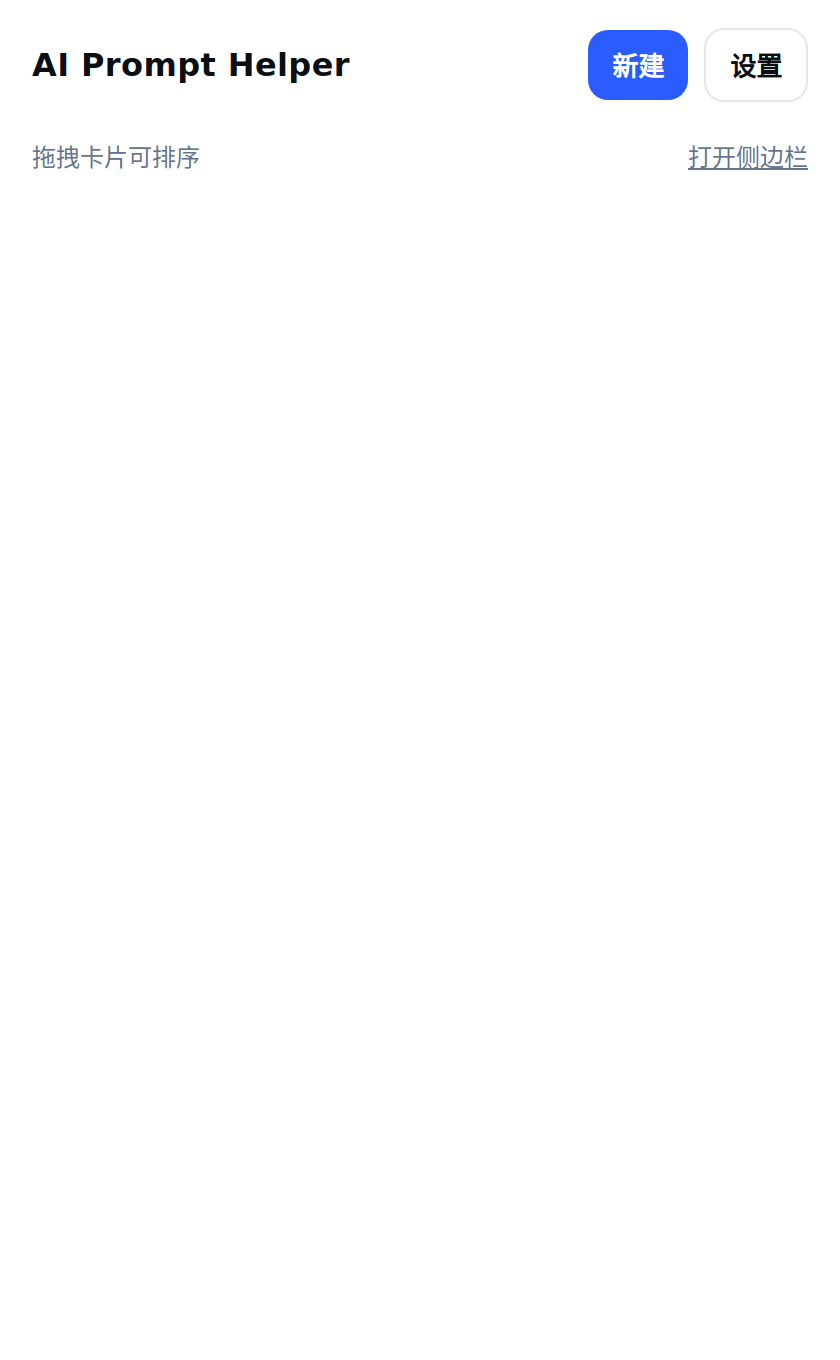
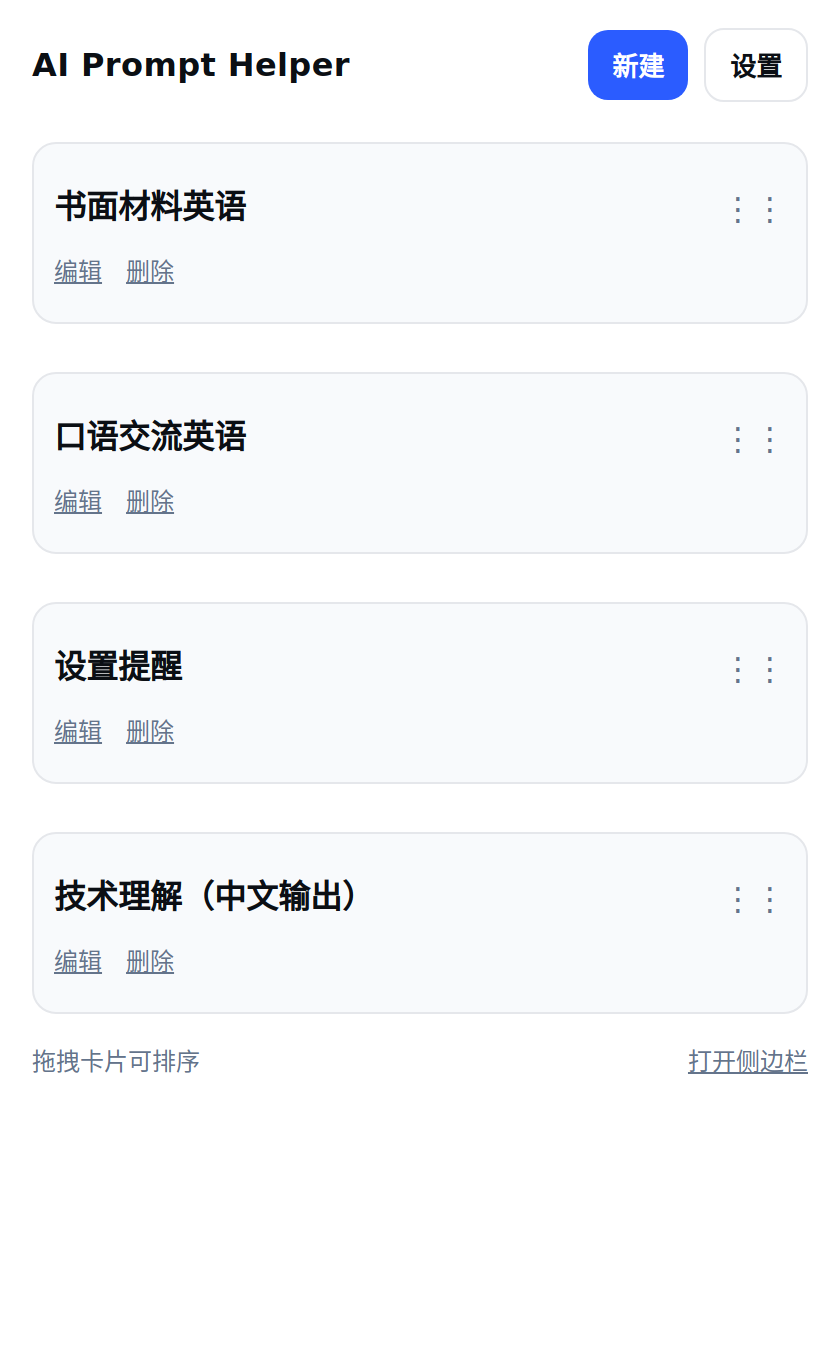
chore(screenshots): ensure preset cards render in screenshots; unify headers; regen

diff --git a/tools/screenshot.js b/tools/screenshot.js
@@ -20,7 +20,20 @@ const puppeteer = require('puppeteer');
 
   // popup home
   await page.goto(popupUrl, { waitUntil: 'load' });
-  await page.waitForSelector('.cards');
+  try { await page.waitForSelector('.cards .card', { timeout: 5000 }); } catch {
+    await page.evaluate(() => {
+      const cards = document.getElementById('cards');
+      if (cards && !cards.querySelector('.card')) {
+        const names = ['书面材料英语','口语交流英语','设置提醒','技术理解（中文输出）'];
+        names.forEach(name => {
+          const d = document.createElement('div');
+          d.className = 'card interactive';
+          d.innerHTML = `<div class="row" style="justify-content:space-between;align-items:center"><div class="card-title">${name}</div><div class="handle">⋮⋮</div></div><div class="row inline-actions" style="justify-content:flex-start"><button class="link">编辑</button><button class="link">删除</button></div>`;
+          cards.appendChild(d);
+        });
+      }
+    });
+  }
   await page.screenshot({ path: path.join(out, 'popup-home.png') });
 
   // popup detail
@@ -38,7 +51,20 @@ const puppeteer = require('puppeteer');
   const side = await browser.newPage();
   await side.setViewport({ width: 420, height: 680, deviceScaleFactor: 2 });
   await side.goto(sideUrl, { waitUntil: 'load' });
-  await side.waitForSelector('.cards');
+  try { await side.waitForSelector('.cards .card', { timeout: 5000 }); } catch {
+    await side.evaluate(() => {
+      const cards = document.getElementById('cards');
+      if (cards && !cards.querySelector('.card')) {
+        const names = ['书面材料英语','口语交流英语','设置提醒','技术理解（中文输出）'];
+        names.forEach(name => {
+          const d = document.createElement('div');
+          d.className = 'card interactive';
+          d.innerHTML = `<div class=\"row\" style=\"justify-content:space-between;align-items:center\"><div class=\"card-title\">${name}</div><div class=\"handle\">⋮⋮</div></div><div class=\"row inline-actions\" style=\"justify-content:flex-start\"><button class=\"link\">编辑</button><button class=\"link\">删除</button></div>`;
+          cards.appendChild(d);
+        });
+      }
+    });
+  }
   await side.screenshot({ path: path.join(out, 'sidepanel-home.png') });
 
   await browser.close();

diff --git a/ai-prompt-helper-extension/sidepanel.html b/ai-prompt-helper-extension/sidepanel.html
@@ -12,8 +12,8 @@
     <div class="header">
       <div class="brand"><span class="title">AI Prompt Helper</span></div>
       <div class="controls toolbar">
-        <button id="createTpl" class="button primary icon">➕ 新建</button>
-        <button id="openSettings" class="button secondary icon">⚙ 设置</button>
+        <button id="createTpl" class="button primary">新建</button>
+        <button id="openSettings" class="button secondary">设置</button>
       </div>
     </div>
 
